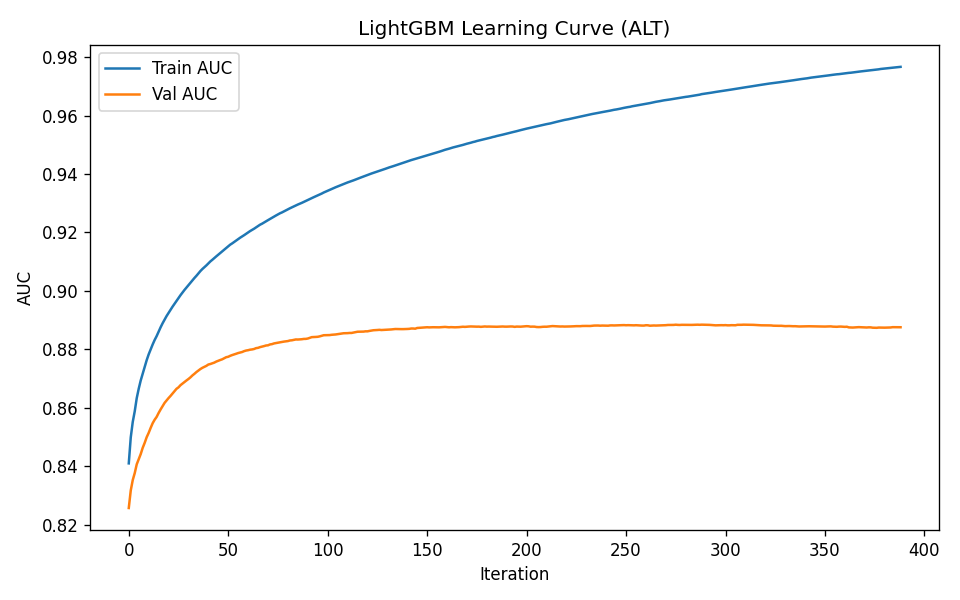
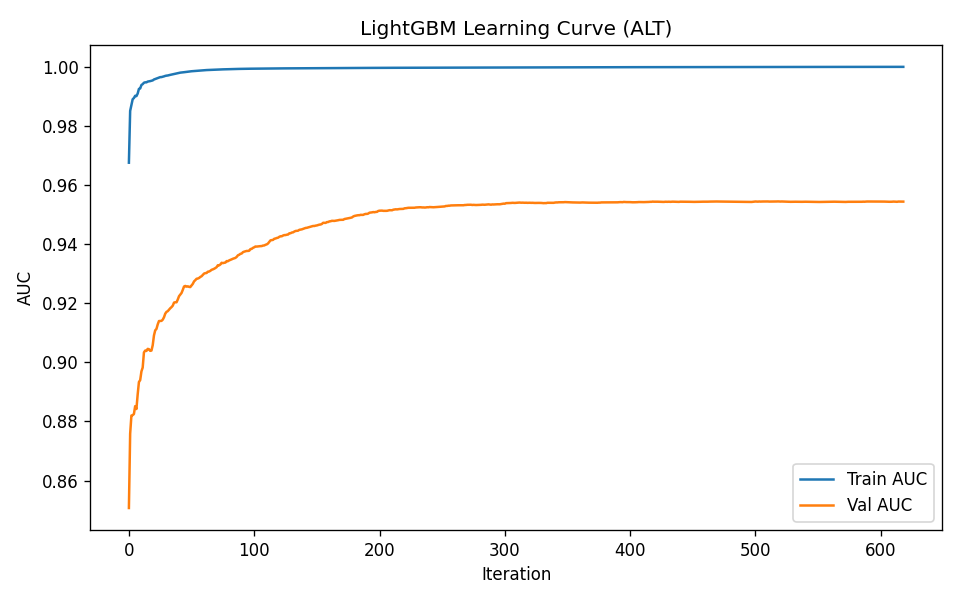
Final LGBM with SMOTE

diff --git a/Code/models/lgbm_model.py b/Code/models/lgbm_model.py
@@ -9,7 +9,13 @@ import numpy as np
 import pandas as pd
 import matplotlib.pyplot as plt
 import lightgbm as lgb
-from sklearn.metrics import roc_auc_score, recall_score, roc_curve, confusion_matrix
+from sklearn.metrics import (
+    roc_auc_score, recall_score, roc_curve, confusion_matrix,
+    accuracy_score, f1_score
+)
+
+# NEW: bring your balancer
+from utils.balancing import balance_train
 
 # ============================
 # Helpers (prepared-splits I/O)
@@ -17,10 +23,6 @@ from sklearn.metrics import roc_auc_score, recall_score, roc_curve, confusion_ma
 TARGET_COL = "fraud_bool"
 
 def _load_split(prepared_dir: Path, split_name: str):
-    """
-    Loads {'variant': <str>, 'data': <DataFrame>} for split in {train,val,test}
-    from files matching '*_<split>.pkl' inside prepared_dir.
-    """
     matches = list(Path(prepared_dir).glob(f"*_{split_name}.pkl"))
     if not matches:
         raise FileNotFoundError(f"No '*_{split_name}.pkl' found in {prepared_dir}")
@@ -43,11 +45,6 @@ def _ensure_results_dir() -> Path:
     return out
 
 def _plot_learning_curve(evals_result: dict, name_map: dict, title: str, out_png: Path):
-    """
-    Plot AUC per iteration for each dataset in evals_result.
-    name_map maps raw dataset names -> pretty labels (e.g., {'valid':'Val','train':'Train'})
-    """
-    # LightGBM stores metrics as: evals_result[dataset_name][metric_name] -> list
     plt.figure(figsize=(8,5))
     for raw, pretty in name_map.items():
         if raw in evals_result and "auc" in evals_result[raw]:
@@ -60,13 +57,18 @@ def _plot_learning_curve(evals_result: dict, name_map: dict, title: str, out_png
     plt.savefig(out_png, dpi=120)
 
 # ============================
-# Core (logic preserved)
+# Core
 # ============================
-def run_lgbm(prepared_dir: Path):
+def run_lgbm(
+    prepared_dir: Path,
+    resampler: str = "none",   # "none" | "ros" | "smote"
+    seed: int = 42,
+    smote_k: int = 5,
+):
     """
-    Reads prepared splits (train/val/test), trains base & alt LightGBM models
-    (same params/logic as provided), selects threshold on VAL at 5% FPR,
-    evaluates on TEST, saves results .txt and learning-curve PNGs.
+    Reads prepared splits (train/val/test), optionally oversamples TRAIN using
+    utils/balancing.py, trains base & alt LightGBM models, selects threshold on
+    VAL at 5% FPR, evaluates on TEST, saves results and learning curves.
     """
     # --- Load prepared splits ---
     v_tr, df_train = _load_split(prepared_dir, "train")
@@ -77,11 +79,35 @@ def run_lgbm(prepared_dir: Path):
     X_valid, y_valid = _xy_from_df(df_val)
     X_test,  y_test  = _xy_from_df(df_test)
 
+    # --- Optional: balance TRAIN only ---
+    def _counts(y):
+        y = np.asarray(y).astype(int)
+        n1 = (y == 1).sum()
+        n0 = (y == 0).sum()
+        return n0, n1
+
+    n0_tr, n1_tr = _counts(y_train)
+    print(f"[INFO] Train class counts BEFORE: 0={n0_tr}  1={n1_tr}")
+
+    if (resampler or "none").lower() != "none":
+        X_train, y_train = balance_train(
+            X_train, y_train,
+            method=resampler.lower(),
+            random_state=seed,
+            smote_k=smote_k,
+            minority_label=1,
+        )
+        n0_b, n1_b = _counts(y_train)
+        print(f"[INFO] Train class counts AFTER ({resampler}): 0={n0_b}  1={n1_b}")
+        is_unbalance_flag = False  # we've already balanced
+    else:
+        is_unbalance_flag = True   # let LightGBM auto-handle imbalance
+
     # --- Datasets for LightGBM ---
     dtrain = lgb.Dataset(X_train, label=y_train)
     dvalid = lgb.Dataset(X_valid, label=y_valid, reference=dtrain)
 
-    # --- Params (unchanged) ---
+    # --- Params ---
     params = {
         "boosting_type": "gbdt",
         "objective": "binary",
@@ -94,46 +120,48 @@ def run_lgbm(prepared_dir: Path):
         "bagging_freq": 1,
         "min_data_in_leaf": 50,
         "lambda_l2": 1.0,
-        "is_unbalance": True,
+        "is_unbalance": is_unbalance_flag,  # <- toggled by resampling
         "verbosity": -1,
-        "seed": 42,
+        "seed": seed,
         "num_threads": 0
     }
 
-    # --- Train BASE model (early stopping on VALID) ---
+    # --- Train BASE ---
     evals_result_base = {}
     model = lgb.train(
         params,
         dtrain,
         num_boost_round=1000,
-        valid_sets=[dvalid, dtrain],      # keep VALID first for same early-stopping behavior
-        valid_names=["valid", "train"],   # so we can plot both curves
+        valid_sets=[dvalid, dtrain],
+        valid_names=["valid", "train"],
         callbacks=[
             lgb.early_stopping(stopping_rounds=100, verbose=False),
             lgb.record_evaluation(evals_result_base)
         ]
     )
 
-    # --- Threshold at 5% FPR chosen on VALID, evaluate on TEST (unchanged logic) ---
+    # --- Threshold at 5% FPR chosen on VALID, evaluate on TEST ---
     p_v = model.predict(X_valid, num_iteration=model.best_iteration)
     fpr_v, tpr_v, thr_v = roc_curve(y_valid, p_v)
     idx = (fpr_v <= 0.05).nonzero()[0]
     thr_5fpr = thr_v[idx[-1]] if len(idx) else 1.0
 
-    p_t  = model.predict(X_test,  num_iteration=model.best_iteration)
-    auc  = roc_auc_score(y_test, p_t)
-    yhat = (p_t >= thr_5fpr).astype(int)
-    rec  = recall_score(y_test, yhat)
+    p_t   = model.predict(X_test,  num_iteration=model.best_iteration)
+    auc   = roc_auc_score(y_test, p_t)
+    yhat  = (p_t >= thr_5fpr).astype(int)
+    rec   = recall_score(y_test, yhat)
+    acc   = accuracy_score(y_test, yhat)
+    f1    = f1_score(y_test, yhat, average="binary")
     tn, fp, fn, tp = confusion_matrix(y_test, yhat, labels=[0,1]).ravel()
     fpr_real = fp / (fp + tn) if (fp + tn) else 0.0
 
     base_line = (
-        f"[BASE] AUC={auc:.4f}  Recall@5%FPR={rec:.4f}  FPR_real={fpr_real:.4f}  "
-        f"thr(valid)={thr_5fpr:.6f}\n"
+        f"[BASE] AUC={auc:.4f}  Acc={acc:.4f}  F1={f1:.4f}  Recall@5%FPR={rec:.4f}  "
+        f"FPR_real={fpr_real:.4f}  thr(valid)={thr_5fpr:.6f}\n"
         f"[BASE] best_iteration={model.best_iteration}\n"
     )
 
-    # --- Train ALT model (unchanged) ---
+    # --- ALT model ---
     params_alt = params.copy()
     params_alt.update({"num_leaves": 63, "min_data_in_leaf": 80, "lambda_l2": 2.0})
 
@@ -142,7 +170,7 @@ def run_lgbm(prepared_dir: Path):
         params_alt,
         dtrain,
         num_boost_round=1000,
-        valid_sets=[dvalid, dtrain],      # VALID first, TRAIN second (for curves only)
+        valid_sets=[dvalid, dtrain],
         valid_names=["valid", "train"],
         callbacks=[
             lgb.early_stopping(stopping_rounds=100, verbose=False),
@@ -150,32 +178,36 @@ def run_lgbm(prepared_dir: Path):
         ]
     )
 
-    p_v2 = model_alt.predict(X_valid, num_iteration=model_alt.best_iteration)
+    p_v2  = model_alt.predict(X_valid, num_iteration=model_alt.best_iteration)
     fpr_v2, tpr_v2, thr_v2 = roc_curve(y_valid, p_v2)
-    idx2 = (fpr_v2 <= 0.05).nonzero()[0]
+    idx2  = (fpr_v2 <= 0.05).nonzero()[0]
     thr_5fpr_alt = thr_v2[idx2[-1]] if len(idx2) else 1.0
 
     p_t2  = model_alt.predict(X_test,  num_iteration=model_alt.best_iteration)
     auc2  = roc_auc_score(y_test, p_t2)
-    rec2  = recall_score(y_test, (p_t2 >= thr_5fpr_alt).astype(int))
+    yhat2 = (p_t2 >= thr_5fpr_alt).astype(int)
+    rec2  = recall_score(y_test, yhat2)
+    acc2  = accuracy_score(y_test, yhat2)
+    f12   = f1_score(y_test, yhat2, average="binary")
 
     alt_line = (
-        f"[ALT ] AUC={auc2:.4f}  Recall@5%FPR={rec2:.4f}  "
+        f"[ALT ] AUC={auc2:.4f}  Acc={acc2:.4f}  F1={f12:.4f}  Recall@5%FPR={rec2:.4f}  "
         f"thr(valid)={thr_5fpr_alt:.6f}\n"
         f"[ALT ] best_iteration={model_alt.best_iteration}\n"
     )
 
-    # --- Save results (.txt) ---
+    # --- Save results ---
     results_dir = _ensure_results_dir()
     txt_path = results_dir / "lgbm_results.txt"
     with open(txt_path, "w", encoding="utf-8") as f:
+        f.write(f"[INFO] Resampler={resampler} seed={seed} smote_k={smote_k}\n")
         f.write(base_line)
         f.write(alt_line)
     print(base_line.strip())
     print(alt_line.strip())
     print(f"[OK] Saved: {txt_path}")
 
-    # --- Save learning curves (Train vs Val AUC) for each model ---
+    # --- Save learning curves ---
     _plot_learning_curve(
         evals_result_base,
         name_map={"train": "Train AUC", "valid": "Val AUC"},
@@ -189,10 +221,25 @@ def run_lgbm(prepared_dir: Path):
         out_png=results_dir / "lgbm_learning_curve_alt.png"
     )
 
-    # Return artifacts if needed by callers
     return {
-        "base": {"model": model, "evals": evals_result_base, "thr_valid_5fpr": thr_5fpr, "auc_test": auc, "recall_test": rec},
-        "alt":  {"model": model_alt, "evals": evals_result_alt, "thr_valid_5fpr": thr_5fpr_alt, "auc_test": auc2, "recall_test": rec2},
+        "base": {
+            "model": model,
+            "evals": evals_result_base,
+            "thr_valid_5fpr": thr_5fpr,
+            "auc_test": auc,
+            "acc_test": acc,
+            "f1_test": f1,
+            "recall_test": rec
+        },
+        "alt":  {
+            "model": model_alt,
+            "evals": evals_result_alt,
+            "thr_valid_5fpr": thr_5fpr_alt,
+            "auc_test": auc2,
+            "acc_test": acc2,
+            "f1_test": f12,
+            "recall_test": rec2
+        },
         "results_path": str(txt_path)
     }
 
@@ -204,11 +251,15 @@ def main():
     parser = argparse.ArgumentParser(description="Run LightGBM on prepared splits.")
     parser.add_argument("--preparedpath", type=str, required=True,
                         help="Path to prepared variant folder, e.g., prepared_data/prepared_base")
+    parser.add_argument("--resampler", default="none", choices=["none", "ros", "smote"],
+                        help="Resampling strategy applied to TRAIN only.")
+    parser.add_argument("--seed", type=int, default=42, help="Random seed for resampling and model.")
+    parser.add_argument("--smote-k", type=int, default=5, help="k_neighbors for SMOTE.")
     args = parser.parse_args()
     prepared_dir = Path(args.preparedpath).expanduser().resolve()
     if not prepared_dir.exists():
         raise FileNotFoundError(f"Prepared path not found: {prepared_dir}")
-    run_lgbm(prepared_dir)
+    run_lgbm(prepared_dir, resampler=args.resampler, seed=args.seed, smote_k=args.smote_k)
 
 if __name__ == "__main__":
     main()

diff --git a/Code/run.py b/Code/run.py
@@ -1,4 +1,4 @@
-# run.py
+# original run.py
 import argparse
 from pathlib import Path
 import re
@@ -101,11 +101,11 @@ def main():
         help="For --mode xgboost/mlp/lgbm: path to prepared variant folder, e.g. prepared_data/prepared_base"
     )
     parser.add_argument("--resampler", default="none", choices=["none", "ros", "smote"],
-                        help="(xgboost/mlp) Resampling strategy applied to TRAIN only.")
+                        help="(xgboost/mlp/lgbm) Resampling strategy applied to TRAIN only.")
     parser.add_argument("--seed", type=int, default=42,
-                        help="(xgboost/mlp) Random seed for resampling and model.")
+                        help="(xgboost/mlp/lgbm) Random seed for resampling and model.")
     parser.add_argument("--smote-k", type=int, default=5,
-                        help="(xgboost/mlp) k_neighbors for SMOTE.")
+                        help="(xgboost/mlp/lgbm) k_neighbors for SMOTE.")
     args = parser.parse_args()
 
     if args.mode in ("clean", "prepare"):
@@ -175,7 +175,12 @@ def main():
         if not prepared_dir.exists():
             raise FileNotFoundError(f"Prepared path not found: {prepared_dir}")
 
-        lgbm_model.run_lgbm(prepared_dir)
+        lgbm_model.run_lgbm(
+            prepared_dir,
+            resampler=args.resampler,
+            seed=args.seed,
+            smote_k=args.smote_k,
+        )
 
 if __name__ == "__main__":
     main()

diff --git a/Code/clean_data.py b/Code/clean_data.py
@@ -1,4 +1,4 @@
-# clean_data.py
+# original clean_data.py
 # -*- coding: utf-8 -*-
 """
 (… your original module docstring …)
